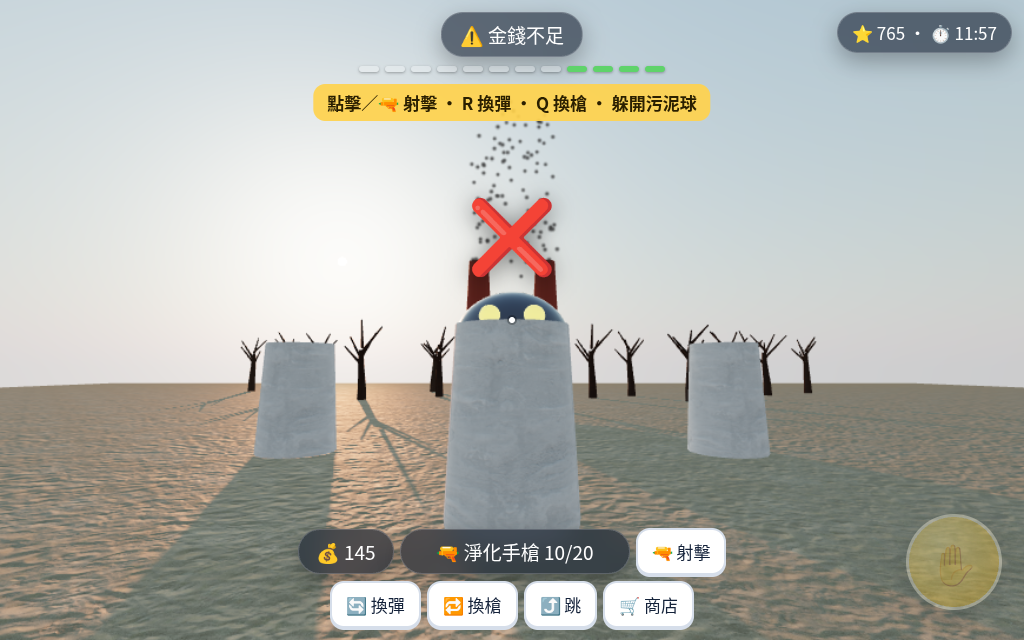
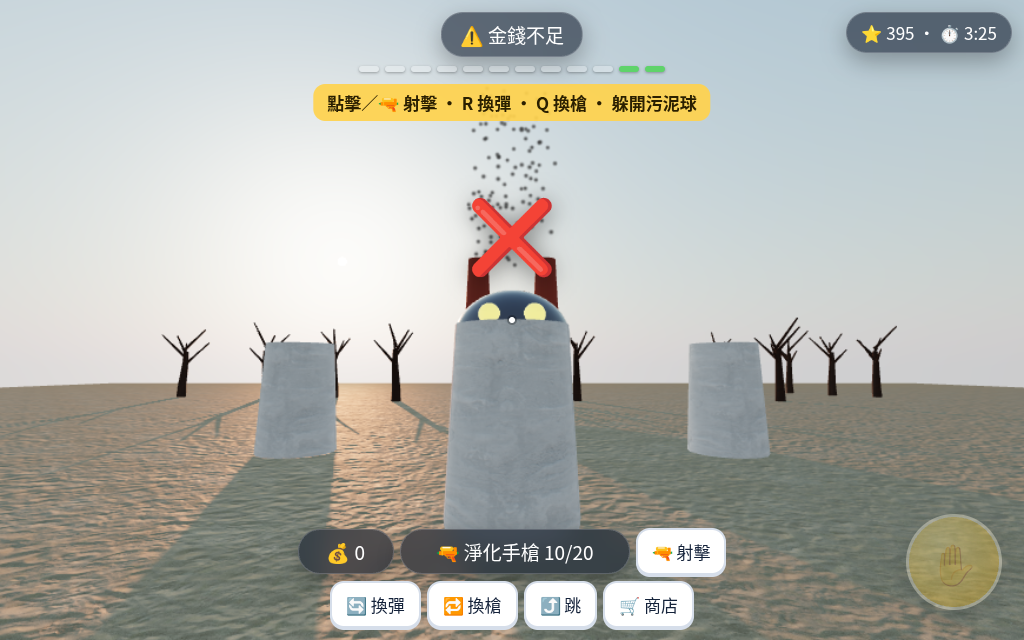
Fix combat reset and paused enemies; verify final missions and boss in segments

diff --git a/js/game.js b/js/game.js
@@ -1131,11 +1131,11 @@ function fire() {
   let sl = hit && slimes.find((q) => { let o = hit.object; while (o) { if (o === q.g) return true; o = o.parent; } return false; });
   if (sl) { sl.hp -= g.dmg; toast('💥', 200); if (sl.hp <= 0) killSlime(sl); return; }
   if (hit && cover.includes(hit.object)) { window.__blocked = (window.__blocked || 0) + 1; return; }
-  if (hit) { window.__hits = (window.__hits || 0) + 1; bossHp -= g.dmg; toast('💥', 250); boss.scale.setScalar(1.05); setTimeout(() => boss && boss.scale.setScalar(1), 80); setPill(`👾 污染地球怪獸 <b>${Math.max(0, bossHp)} HP</b> · ❤ ${pHp}`); if (bossHp <= 0) winBoss(); }
+  if (hit) { window.__hits = (window.__hits || 0) + 1; bossHp -= g.dmg; toast('💥', 250); boss.scale.setScalar(1.05); setTimeout(() => boss && boss.scale.setScalar(1), 80); setPill(`👾 污染地球怪獸 <b>${Math.max(0, bossHp)} HP</b> · ❤ ${Math.ceil(pHp)}`); if (bossHp <= 0) winBoss(); }
 }
 let pHp = 100;
 function startBoss() {
-  clearWorld(); slimes.length = 0; cover.length = 0; shots = []; bossOn = true; bossPhase = 1; missionTimerOn = false; pHp = 100; bossHp = 900; bossCd = 2.5; ringCd = 6;
+  clearWorld(); slimes.length = 0; cover.length = 0; shots = []; rings = []; jumpH = 0; jumpV = 0; fireCd = 0; reloadT = 0; mouseFire = false; bossOn = true; bossPhase = 1; missionTimerOn = false; pHp = 100; bossHp = 900; bossCd = 2.5; ringCd = 6;
   A.outdoor({ elev: 12, azim: 200, turb: 12, rayleigh: 3, fog: 0x8a7a5a, near: 20, far: 90, sunC: 0xffa060, expo: 0.55 });
   A.ground('ground054', 80, 20);
   for (let i = 0; i < 14; i++) A.tree((Math.random() - 0.5) * 40, -14 - Math.random() * 10, 1.2, { bare: true });
@@ -1148,7 +1148,7 @@ function startBoss() {
   const smoke = A.particles(120, 3, 0x555555, 0.3, -0.8, 6); boss.add(smoke); smoke.position.y = 4;
   worldRoot.add(boss);
   setBounds(14); player.x = 0; player.z = 8; player.yaw = 0; player.pitch = 0.1;
-  setPill(`👾 污染地球怪獸 <b>${bossHp} HP</b> · ❤ ${pHp}`); hint('點擊／🔫 射擊 · R 換彈 · Q 換槍 · 躲開污泥球');
+  setPill(`👾 污染地球怪獸 <b>${bossHp} HP</b> · ❤ ${Math.ceil(pHp)}`); hint('點擊／🔫 射擊 · R 換彈 · Q 換槍 · 躲開污泥球');
   updWeap();
 }
 function bossTick(dt) {
@@ -1201,11 +1201,11 @@ R.domElement.addEventListener('mousedown', (e) => { if ((bossOn || slimes.length
 addEventListener('mouseup', () => { mouseFire = false; });
 addEventListener('keydown', (e) => { if (!(bossOn || slimes.length)) return; if (e.code === 'KeyR') reload(); if (e.code === 'KeyQ') swap(); });
 function hurt(n) {
-  pHp = Math.max(0, Math.round(pHp - n)); setPill(`👾 污染地球怪獸 <b>${Math.max(0, bossHp)} HP</b> · ❤ ${pHp}`); shake = 0.4; setTimeout(() => (shake = 0), 200);
+  pHp = Math.max(0, pHp - n); setPill(`👾 污染地球怪獸 <b>${Math.max(0, bossHp)} HP</b> · ❤ ${Math.ceil(pHp)}`); shake = 0.4; setTimeout(() => (shake = 0), 200);
   if (pHp <= 0 && !bossOn && slimes.length) { pHp = 100; const n = slimes.length; slimes.forEach((q) => worldRoot.remove(q.g)); slimes.length = 0; failNudge('被擊倒！再試一次'); spawnSlimes(n, slimeDone); return; }
   if (pHp <= 0 && bossOn) { bossOn = false; const b = showBoard(`<h2>😵 被污染擊倒</h2><p class="tip">去商店補彈或買新武器，再挑戰！</p><button class="go" data-testid="retry" id="retry">🔁 重試 Boss</button>`, true); b.querySelector('#retry').onclick = () => { inv.water.mag = 12; startBoss(); }; }
 }
-function winBoss() { bossOn = false; bossWon = true; worldRoot.remove(boss); boss = null; money += 200; score += 500; toast('🏆', 1500); setTimeout(endGame, 1200); }
+function winBoss() { slimes.forEach((q) => worldRoot.remove(q.g)); slimes.length = 0; bossOn = false; bossWon = true; worldRoot.remove(boss); boss = null; money += 200; score += 500; toast('🏆', 1500); setTimeout(endGame, 1200); }
 window.__BOSS = { get slimes() { return slimes.map((q) => ({ x: q.g.position.x, z: q.g.position.z, hp: q.hp })); }, get boss() { return boss ? { x: boss.position.x, z: boss.position.z, phase: bossPhase } : null; }, start: startBoss, give(n) { money += n; updWeap(); }, get s() { return { shopOpen, fireCd: +fireCd.toFixed(2), reloadT, bossOn, bossHp, pHp, money, gun, jumpH, shots: window.__shots || 0, hits: window.__hits || 0, blocked: window.__blocked || 0, inv: JSON.parse(JSON.stringify(inv)) }; } };
 updWeap();
 
@@ -1265,8 +1265,8 @@ function loop() {
   const dt = Math.min(0.05, clock.getDelta());
   if (running && !boardModal && !shopOpen) movePlayer(dt);
   if (running && bossOn && !shopOpen) bossTick(dt);
-  else if (running && slimes.length) { fireCd -= dt; if (reloadT > 0) reloadT -= dt; if (keys['KeyF'] || mouseFire) fire(); }
-  if (running && slimes.length) slimeTick(dt);
+  else if (running && slimes.length && !shopOpen && !boardModal) { fireCd -= dt; if (reloadT > 0) reloadT -= dt; if (keys['KeyF'] || mouseFire) fire(); }
+  if (running && slimes.length && !shopOpen && !boardModal) slimeTick(dt);
   if (jumpV || jumpH > 0) { jumpV -= 14 * dt; jumpH = Math.max(0, jumpH + jumpV * dt); if (jumpH === 0) jumpV = 0; }
   C.position.y = player.y + jumpH;
   if (running) setStats();

diff --git a/QA.md b/QA.md
@@ -1,0 +1,36 @@
+# QA — 2026-11-07 (Asia/Taipei, UTC+8)
+
+## Scope and evidence
+Local static server; Chromium/SwiftShader via Playwright. This is **segment-based verification**, not one uninterrupted 12-mission run. Earlier M1–M10 passage was handed over from the previous run at `fdde03e`; that browser crashed before M11 finished. M1–M10 were not replayed in this pass.
+
+| This pass | Result |
+| --- | --- |
+| `START=10 node tests/full.mjs` | M11 + M12, wrong-item feedback, unsafe lift feedback, money/shop, intentional Boss defeat, retry, all 3 Boss phases, aiming/shooting, cover blocking shots, reload, switching weapon, jumping, victory/end screen. Passed; 0 page errors; ~395 s automation wall time. |
+| `START=11 node tests/full.mjs` | M12 through intentional defeat/retry and Boss victory using only the starter water gun. Passed; 0 page errors; ~288 s wall time. |
+| `node tests/ipad3.mjs` | 1180×820 landscape and 820×1180 portrait: joystick movement 1.89 units, look +0.48 rad, shop purchase, ammo 10→6, reload→10, jump >0, swap to water; weapon HUD overlaps neither joystick nor interact button. Passed both; 0 page errors. |
+| `node tests/combat-regressions.mjs` | Test-only instrumentation verifies fractional damage, clean Boss restart, slime pause while shopping, enemy cleanup on victory. Passed; 0 page errors. |
+
+`START` uses debug `jumpTo` **only to skip earlier missions**; navigation, task actions and combat thereafter use keyboard/mouse input. Thus final completion counters are honestly 2/12 and 1/12, not 12/12. Skipped missions award no money, so higher-priced purchases are correctly refused in these segments. iPad control smoke tests separately use debug Boss start and test funds, not a full touch playthrough.
+
+Screenshots in `previews/v3_*` were opened and visually reviewed, including M11, Boss loss/phase changes/victory, and portrait/landscape mission/shop/combat screens. Machine-readable outcomes: `previews/qa-results.json`.
+
+## Bugs fixed (no new features)
+- Kept fractional contact damage internally; per-frame rounding previously made damage frame-rate dependent. HUD still shows whole HP.
+- Boss retry now clears old shockwaves, jump velocity/height, firing/reload cooldowns and held mouse-fire state.
+- Slimes no longer move, attack or keep firing during the shop or a modal defeat screen.
+- Victory removes surviving slimes so they cannot attack during the end-screen delay.
+- Test harness now dodges rather than standing in enemy fire, handles a death/retry race, accounts for jump height in aiming, accepts `BASE_URL`, and makes explicit success assertions.
+
+## Limits / remaining unverified
+- iPad is **Chromium touch/viewport emulation**, not real iPad hardware or Safari/WebKit.
+- **30–45 minutes of normal first-time human play is not tested or established.** Automation wall time is not lesson duration.
+- No exhaustive all-position camera, collision, occlusion or physics guarantee; screenshots and navigation cover the exercised routes only. No newly observed blocking issue remains in the tested segments.
+
+## Reproduce
+```sh
+python3 -m http.server 8766
+BASE_URL=http://127.0.0.1:8766/ START=10 node tests/full.mjs
+BASE_URL=http://127.0.0.1:8766/ START=11 node tests/full.mjs
+BASE_URL=http://127.0.0.1:8766/ node tests/ipad3.mjs
+BASE_URL=http://127.0.0.1:8766/ node tests/combat-regressions.mjs
+```
